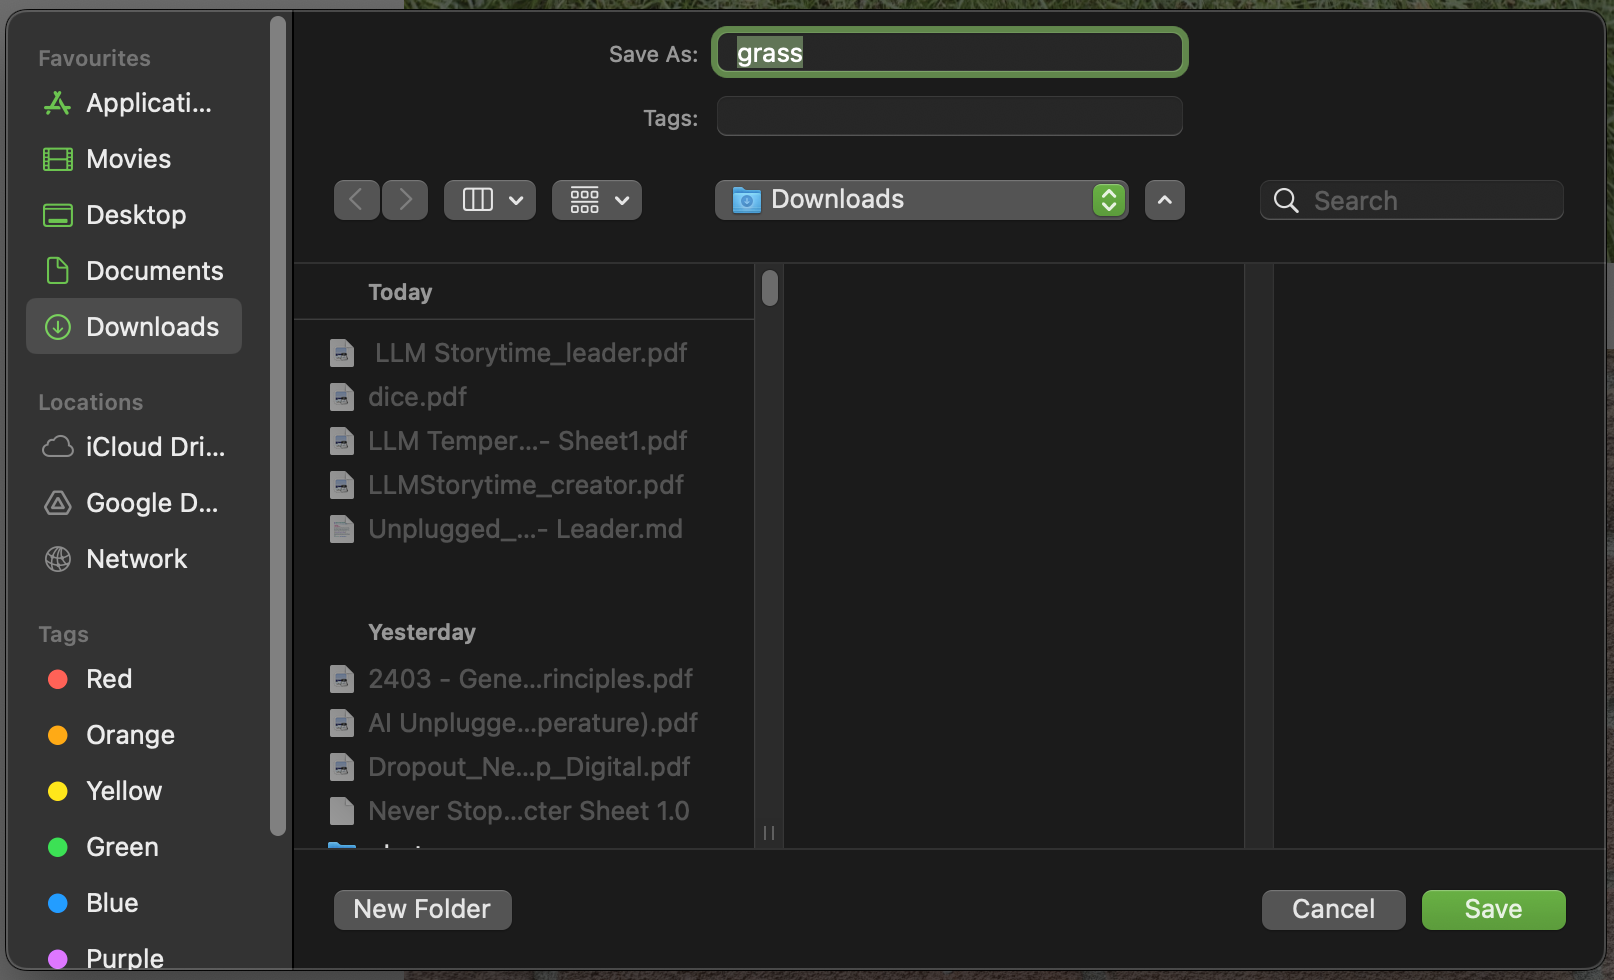
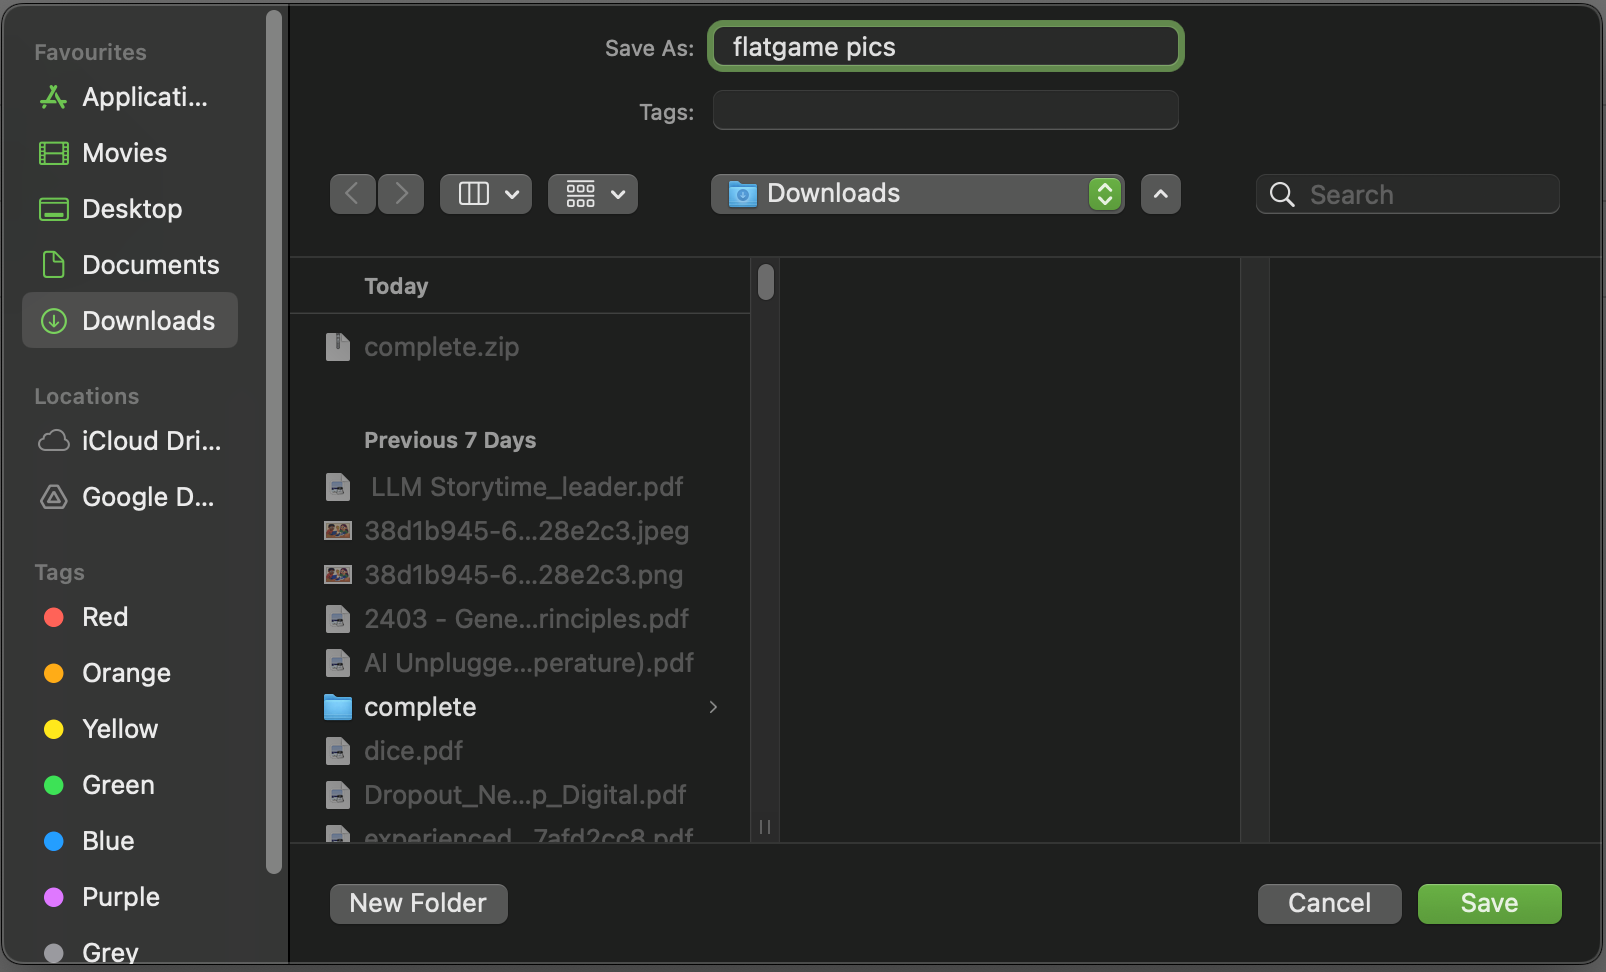
qa updates

diff --git a/en/step_2.md b/en/step_2.md
@@ -11,121 +11,62 @@ To make a flatgame you start by crafting and making hand-drawn artwork based on 
 
 This is your chance to make something fun or imaginative and share what Code Club means to you.
 
-First decide what your flatgame is about. Chose one of these ideas or ask your club leader if they have some suggestions:
+First decide what your flatgame is about. 
 
 --- task ---
-Your favorite thing to do at code club
---- /task ---
+1. Chose one of these ideas or ask your club leader if they have some suggestions:
 
---- task ---
-The first thing you see when you arrive at Code Club every week
---- /task ---
-
---- task ---
-A tool you use all the time at code club
---- /task ---
-
---- task ---
-The best game ever made at code club!
---- /task ---
-
---- task ---
-If you have an outdoor space - is there something inspiring about it? 
---- /task ---
-
---- task ---
-Your journey to or from code club
---- /task ---
-
---- task ---
-Or make a flatgame theme based on right where you are. 👀 Look around the room you are in, what do you notice, what is interesting or different about it? 
+- [ ] Your favorite thing to do at code club
+- [ ]The first thing you see when you arrive at Code Club every week
+- [ ]A tool you use all the time at code club
+- [ ]The best game ever made at code club!
+- [ ]If you have an outdoor space - is there something inspiring about it? 
+- [ ]Your journey to or from code club
+- [ ]Or make a flatgame theme based on right where you are. 👀 Look around the room you are in, what do you notice, what is interesting or different about it? 
 --- /task ---
 
 When you have decided on what your flatgame is about you can start making artwork. Remember that flagames are messy and quick, and don’t need to make sense! Just get started and make way more than you need!
 
 --- task ---
-Draw or craft characters, backgrounds, textures, words, or anything else related to your code club. 
+2. Draw or craft characters, backgrounds, textures, words, or anything else related to your code club. 
 
 ![An A$ paper with doodles and sketches. Someone is drawing](images/drawing.png)
 --- /task ---
 
 --- task ---
-With a tablet or phone take photos of your artwork. This will be used for your game, so try to take a clear picture in a light room. 📸
+3. With a tablet or phone take photos of your artwork. This will be used for your game, so try to take a clear picture in a light room. 📸
 
 ![Taking a photo through a mobile phone of had drawn images](images/photo.png)
 
 If you can't use a camera, there are some images below you can use.
 --- /task ---
 
+--- task ---
 You can also take photos of things around the room that can be used as a background or sprites. These give the flatgame a cut-out look.
 
-**Don't** take photos of people faces or identifying features.
+**Remember: Don't** take photos of people faces or identifying features.
 
---- task ---
-Look around for any interesting textures or patterns, take photos of details you like. 
---- /task ---
+- Look around for any interesting textures or patterns, take photos of details you like. 
 
---- task ---
-Could you make a Raspberry Pi or Micro Bit into a sprite? What else could you find?
---- /task ---
+- Could you make a Raspberry Pi or Micro Bit into a sprite? What else could you find?
 
---- task ---
-Are there any books with some text or pictures that might look cool?
---- /task ---
+- Are there any books with some text or pictures that might look cool?
 
---- task ---
-What about larger things like furniture, or if you can go outdoors - plants and trees!
+- What about larger things like furniture, or if you can go outdoors - plants and trees
 --- /task ---
 
 You can use the following pictures if you don't have a camera, or create some of your own in the paint editor in Scratch!
 
 --- task ---
-To use the images in the collapse below, just right click (two-fingers on Mac) on the image you want to use and choose 'Save Image As'.
-![Context menu showing image options in a browser, with “Save Image As...” highlighted among choices like copy and search](images/saveas.png)
+To use the images in the Drive folder, just [follow this link](https://drive.google.com/drive/folders/1zZ06mkskqer21uXyxuO8Hht9szpn9cYc){:target="_blank"} and click `Download all` at the top right of the window that opens.
+![Google Drive folder named flatgame with two subfolders, Textures and Things, and a download all button.](images/downloadall.png)
 --- /task ---
 
 --- task ---
 
-In the popup window, choose the folder you want to save the images to - something easy to get back to, like `Downloads`or `Documents` is good.
-![Save dialogue window on macOS showing the filename "grass" being entered, with the Downloads folder selected as the destination.](images/popupsave.png)]
+In the popup window, choose the folder you want to save the images to - something easy to get back to, like `Downloads`or `Documents` is good. Call the file `flatgame` and cilck `Save`.
+![Save dialogue window on macOS showing the filename "grass" being entered, with the Downloads folder selected as the destination.](images/popupsave.png)
 --- /task ---
 
---- collapse ---
-
----
-
-title: No camera? Use these pictures!
-
----
-
-### Things
-![Green lanyard with “code club” text attached to a blank white badge holder](images/badge.png)  
-![Metallic pink binder clip with folded handles](images/clip.png)  
-![Glazed ceramic dog figurine with brown patches and a red collar](images/dog.png)  
-![Matte white ceramic rabbit figurine with vertical grooves](images/rabbit.png)  
-![Small black and white ceramic cat figurine with yellow eyes](images/cat.png)  
-![Sharpened black pencil with an unused white eraser](images/pencil.png)  
-![Large spiny seashell with ridged surface and pale brown markings](images/seashell.png)  
-![Over-ear grey headphones with padded ear cups and adjustable headband](images/headphones.png)  
-![Black aviator-style sunglasses with dark lenses and thin frame](images/sunglasses.png)  
-![Red and black Phillips screwdriver with textured grip handle](images/screwdriver.png)  
-![Raspberry Pi single-board computer with visible ports and components](images/pi.png)  
-![Purple USB flash drive with silver swivel cover](images/usb.png)  
-![Metal safety scissors with red plastic handles, open position](images/scissors_open.png)  
-![Metal safety scissors with red plastic handles, closed position](images/scissors_closed.png)  
-![Worn yellow tennis ball with white curved seam](images/ball.png)  
-![Black retractable ballpoint pen with clear barrel and rubber grip](images/pen.png)  
-![White fidget cube with five blue pressable buttons](images/cube.png)  
-
-### Textures / Patterns
-![Green cutting mat with white grid lines and diagonal guides](images/mat.jpeg)  
-![Blue and white herringbone fabric with visible stitch lines](images/blanket.jpeg)  
-![Blue and white herringbone fabric with darker blue lower section](images/blanket2.jpeg)  
-![Patch of green grass with scattered dry leaves](images/grass.jpeg)  
-![Red brick wall with light grey mortar](images/bricks.jpeg)
-![Grey chenille rug with raised textured tufts](images/rug.jpeg)
-![Grey chenille rug with raised textured tufts](images/tiles.jpeg)
-
---- /collapse ---
 
 In the next step, upload your artwork to Scratch!

diff --git a/en/step_1.md b/en/step_1.md
@@ -20,9 +20,9 @@ And one about a card game!
 To make a flatgame you start by crafting and making hand-drawn artwork for the game. 
 
 You'll need: 
-🎨 drawing or crafting materials (pens, paper, scissors)
-📷 a phone or tablet to take photos
-👾 the Scratch [starter project](http://rpf.io/flatgame){:target="_blank"}
+- 🎨 drawing or crafting materials (pens, paper, scissors)
+- 📷 a phone or tablet to take photos
+- 👾 the Scratch [starter project](http://rpf.io/flatgame){:target="_blank"}
 
 
 ### Did you know?
